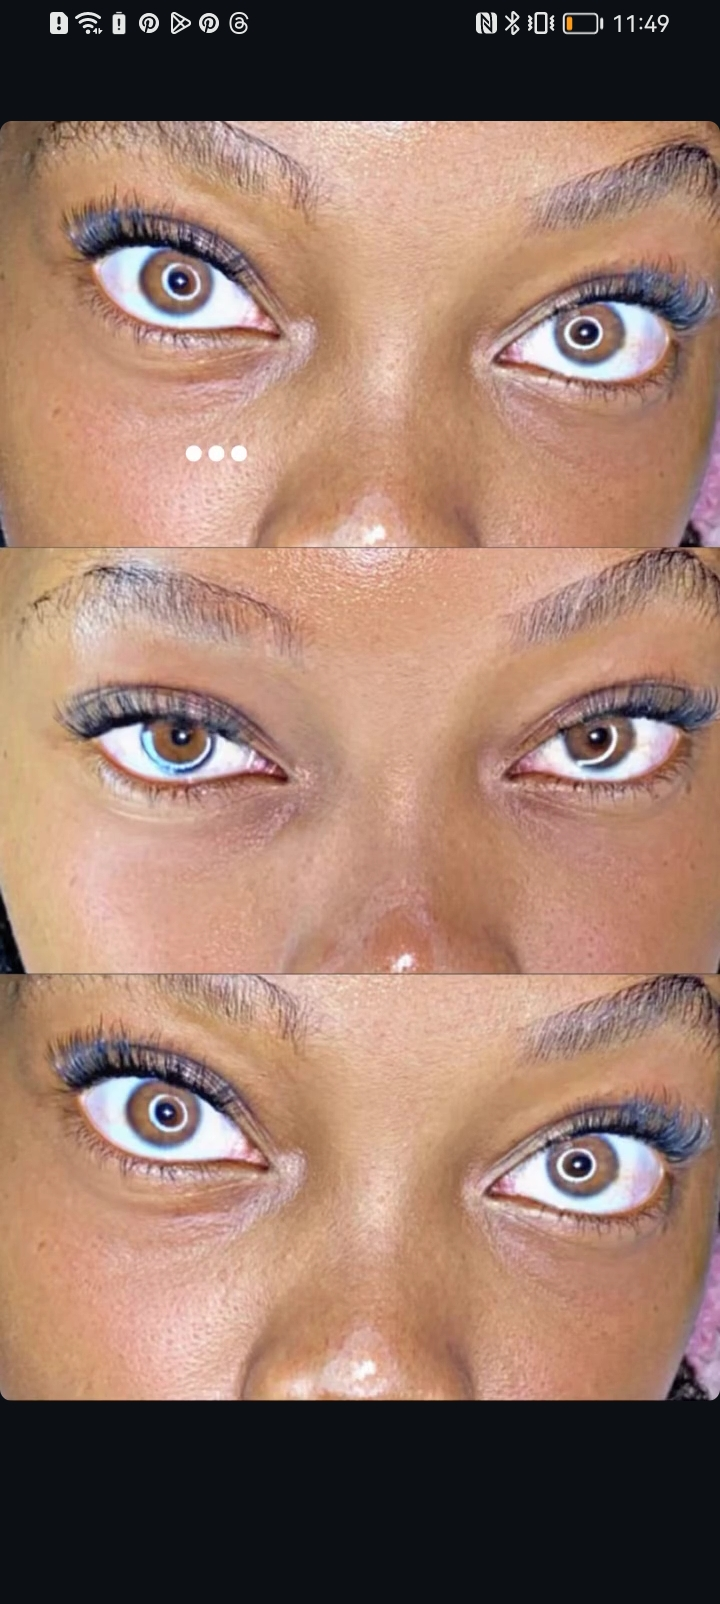
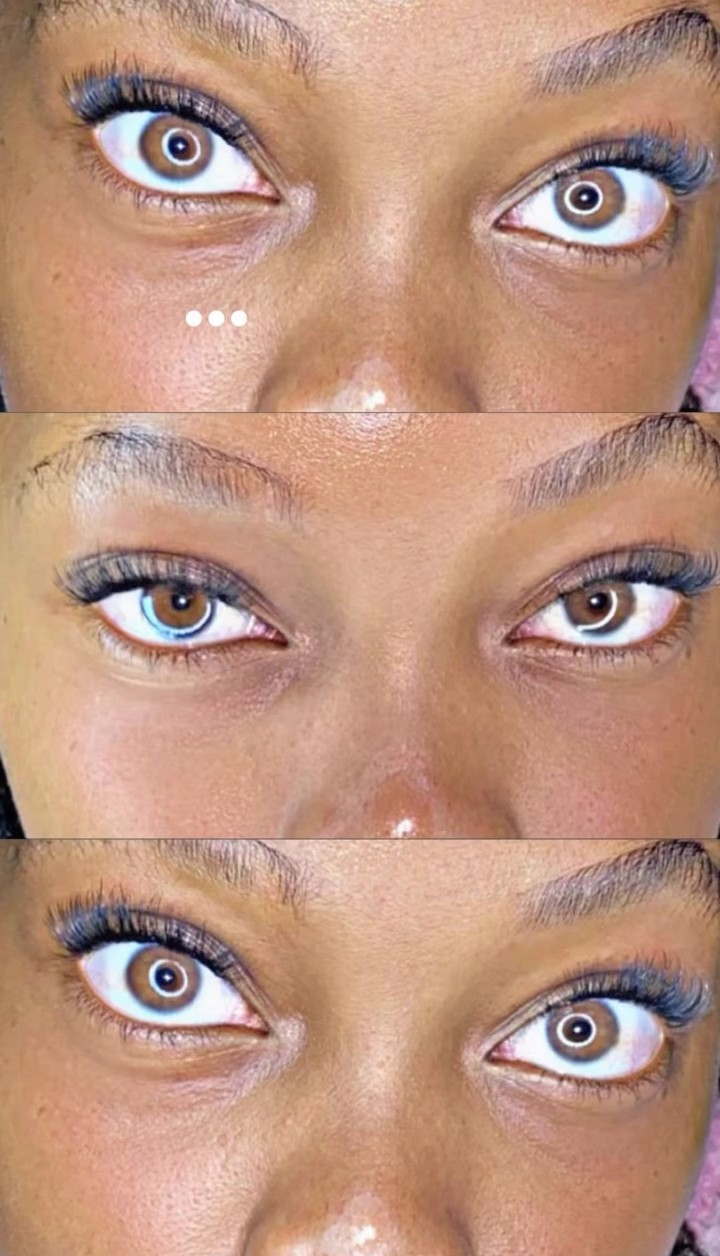
Update cropped gallery image

diff --git a/index.html b/index.html
@@ -339,7 +339,7 @@
         <div class="gallery-item">
 
     <img
-        src="Images/image 2.jpg"
+        src="Images/Image 2.jpg"
         alt="Royal Winks beauty work"
     >
 
